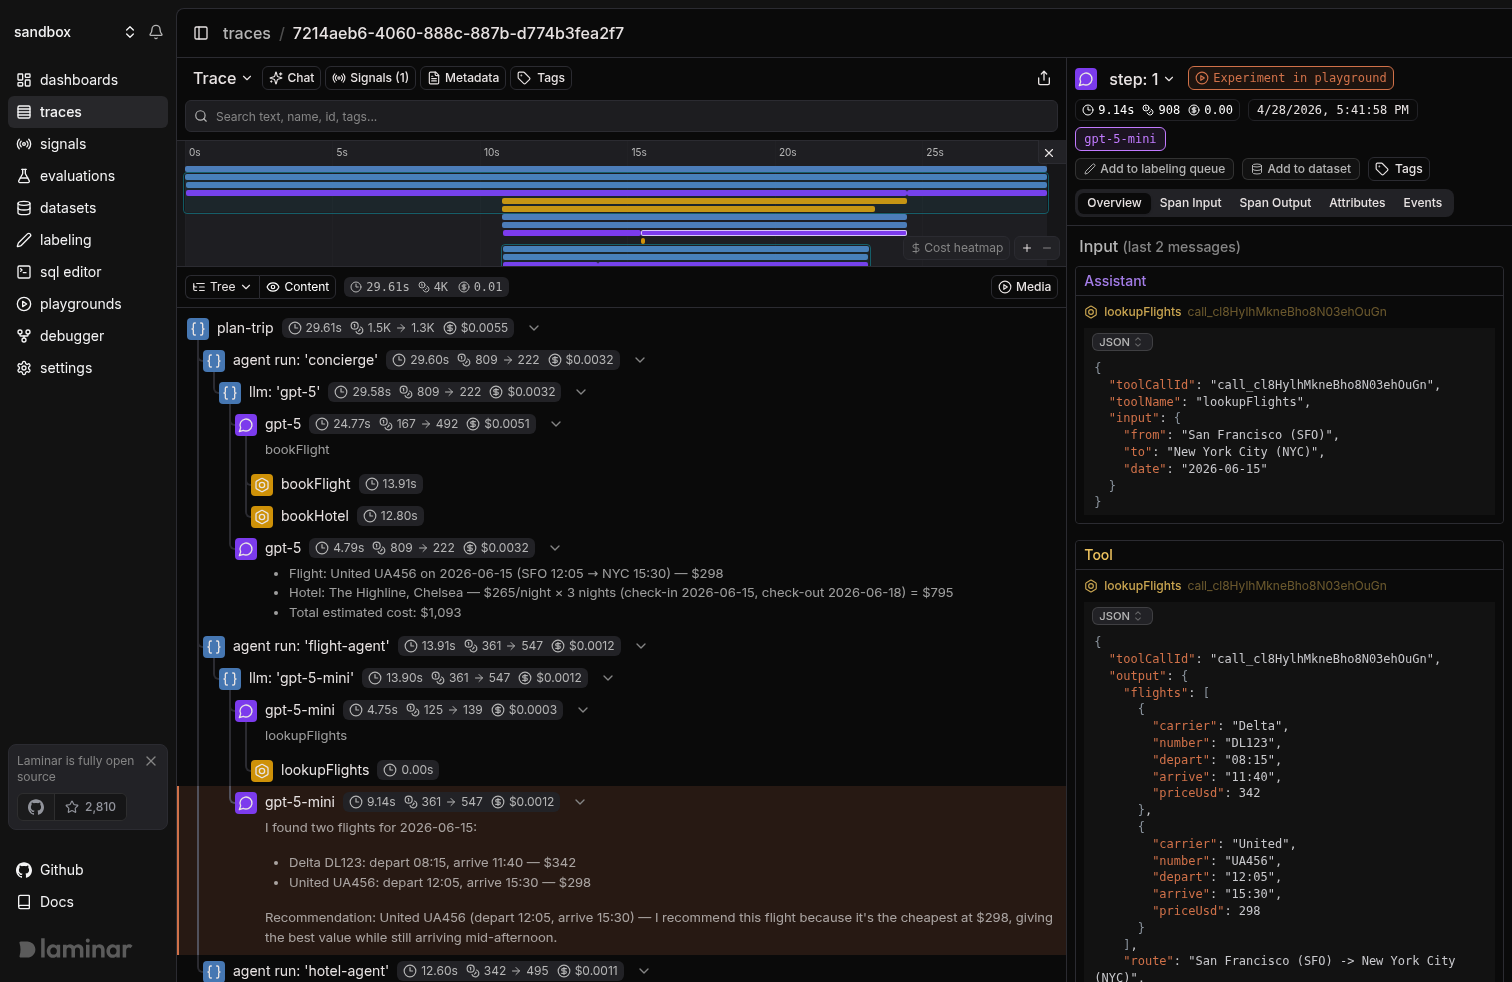
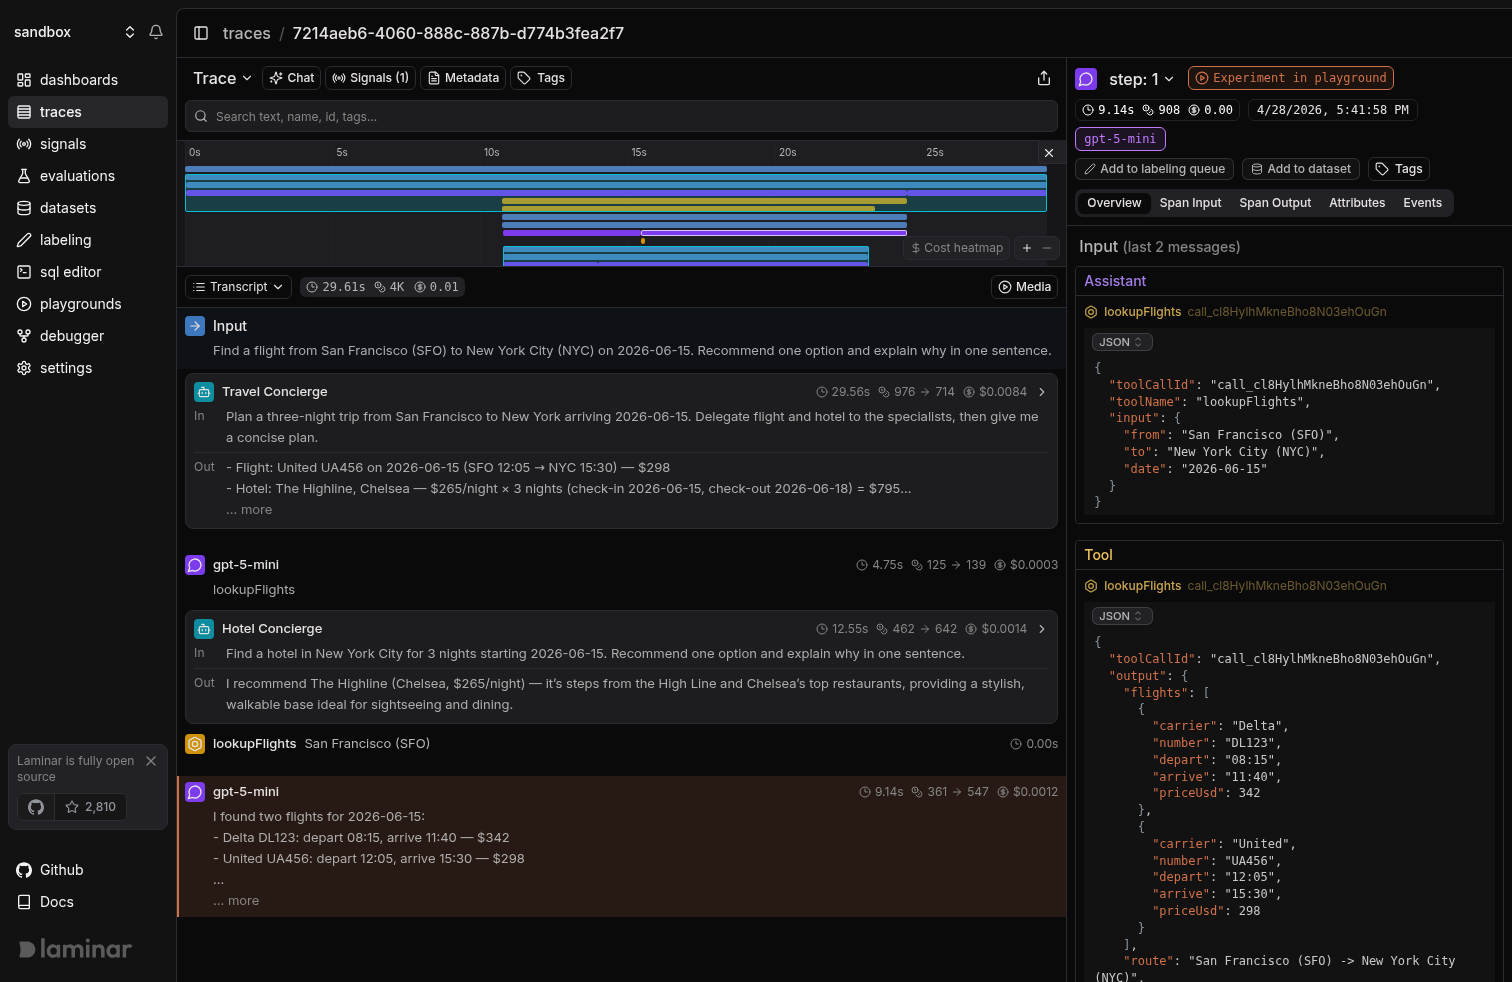
Address PR review on Mastra integration docs
- Drop "page" framing and "auto-instrumentation" label in the changelog
  entry — the new feature is a native integration, not a new page.
- Mastra.mdx: remove `@mastra/mcp` detail, relabel reasoning as
  "Thinking tokens", tighten overview frame caption.
- Lower stated minimum versions to @mastra/core >= 1.0.0 and
  @mastra/observability >= 1.0.0 (verified against npm: Observability
  class and ObservabilityEntrypoint field exist in 1.0.0).
- Swap mastra.png / mastra-tree.png file contents so filenames match
  what each screenshot actually shows (first image was tree-view, second
  was transcript-view — reversed from captions).

diff --git a/CLAUDE.md b/CLAUDE.md
@@ -111,7 +111,7 @@ This is a Mintlify site. Pages are `.mdx`, navigation lives in `docs.json`, reus
 
 ## Mastra integration
 
-- `MastraExporter` is Mastra-specific and plugs into Mastra's own `Observability` config — it is NOT a standalone initializer like Vercel AI SDK's `getTracer()`. Shape: `new Observability({ default: { enabled: false }, configs: { <name>: { serviceName, exporters: [new MastraExporter()] } } })`. Requires `@lmnr-ai/lmnr >= 0.8.21`, `@mastra/core >= 1.28.0`, `@mastra/observability >= 1.10.0`.
+- `MastraExporter` is Mastra-specific and plugs into Mastra's own `Observability` config — it is NOT a standalone initializer like Vercel AI SDK's `getTracer()`. Shape: `new Observability({ default: { enabled: false }, configs: { <name>: { serviceName, exporters: [new MastraExporter()] } } })`. Minimum versions: `@lmnr-ai/lmnr >= 0.8.21`, `@mastra/core >= 1.0.0`, `@mastra/observability >= 1.0.0` — `@mastra/core@1.0.0` is the first stable with the `ObservabilityEntrypoint` field on `new Mastra({ observability })` and matching `Observability` class in `@mastra/observability@1.0.0`. Don't bump these to a higher floor unless a new API is actually needed.
 - `default: { enabled: false }` is load-bearing. Omitting it double-emits spans via Mastra's built-in default exporters alongside Laminar. Always call it out in docs.
 - Mastra's `Observability` has NO `.flush()` method — `await observability.shutdown()` IS the flush path. Document `observability.shutdown()` before `Laminar.shutdown()` on every end-of-script example.
 - `MastraExporter({ linkToActiveContext: true })` is the default. When a Mastra agent runs inside an active OTel span (e.g. `observe()` or `@vercel/otel`), the exporter rewrites Mastra trace ids onto the caller's trace so `observe()` root + Mastra subtree render as one trace. Readers hitting "two separate traces" have overridden this to `false` or called `Laminar.initialize()` after `new Mastra(...)`.
@@ -119,6 +119,7 @@ This is a Mintlify site. Pages are `.mdx`, navigation lives in `docs.json`, reus
 - Mastra AI SDK v6 tool `execute` takes `(inputData)` whose fields are under `inputData.context` — NOT destructured at top level. `execute: ({ from, to }) => ...` silently receives `undefined`. Write `execute: (inputData) => { const { from, to } = inputData.context; ... }`.
 - Mastra v1.28 removed `maxSteps`; use `stopWhen: ({ steps }) => (steps?.length ?? 0) >= N` (or the `stepCountIs` helper from the AI SDK equivalent). Older docs showing `maxSteps` are wrong.
 - Multi-subagent demo shape: wrap each sub-agent in a `createTool({ execute: async (inputData) => { const res = await subAgent.generate(...); return {...}; } })`. Laminar nests the sub-agent's full run (its own turns and tool calls) under the parent tool span. Rich tree-view screenshots come from this pattern (concierge → bookFlight tool → flight-agent run → gpt-5-mini LLM → lookup_flights tool). Flat-single-agent demos look thin by comparison.
+- When shipping both transcript- and tree-view screenshots (`/images/traces/<integration>.png` + `<integration>-tree.png`), verify each filename matches what the image actually shows before committing — the `Tree`/`Transcript` dropdown label in the top-left of the trace pane is the ground truth, and the right-hand Span Input/Output panel alone cannot tell the two views apart. Misfiled screenshots ship silently: the page builds, Mintlify renders, and only a reviewer comparing caption to pixels notices.
 
 ## OpenAI Agents SDK integration
 
